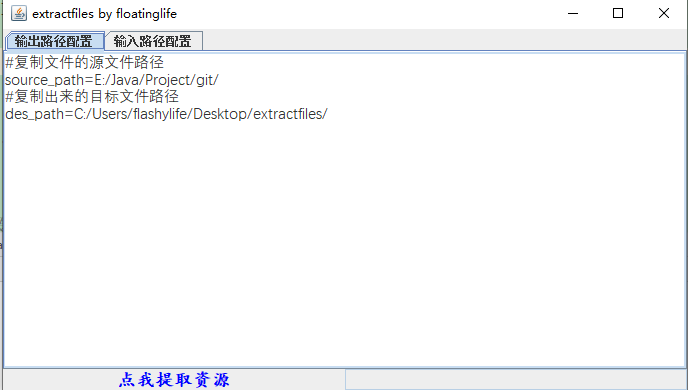
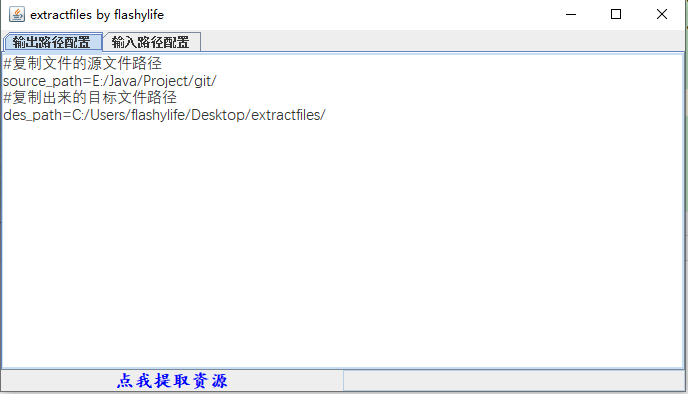
modify img

Changed region(s): [[0.0, 0.0, 1.0, 1.0], [0.8852, 0.0, 0.9157, 0.0615]]

diff --git a/src/main/java/xyz/floatinglife/main/ExtractClassFrame.java b/src/main/java/xyz/floatinglife/main/ExtractClassFrame.java
@@ -149,7 +149,7 @@ public class ExtractClassFrame extends JFrame {
     public void start() {
         setText();
         setPro();
-        this.setTitle("extractfiles by floatinglife");
+        this.setTitle("extractfiles by flashylife");
         this.setSize(WIDTH, HEIGHT);
         this.setLocationRelativeTo(null);
         this.setDefaultCloseOperation(JFrame.EXIT_ON_CLOSE);
